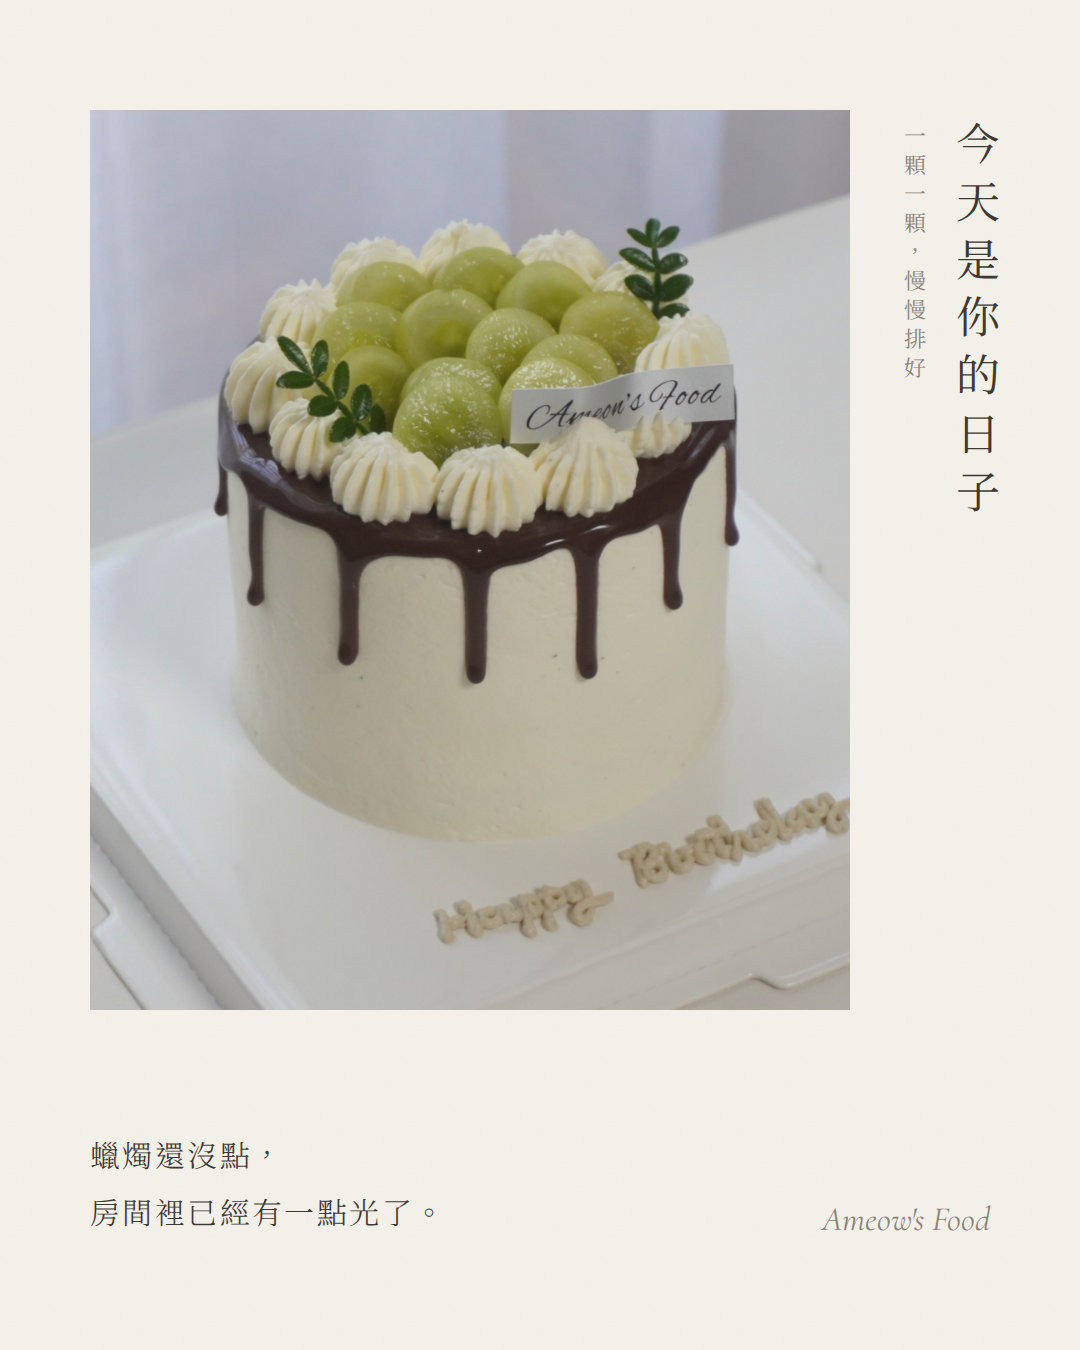
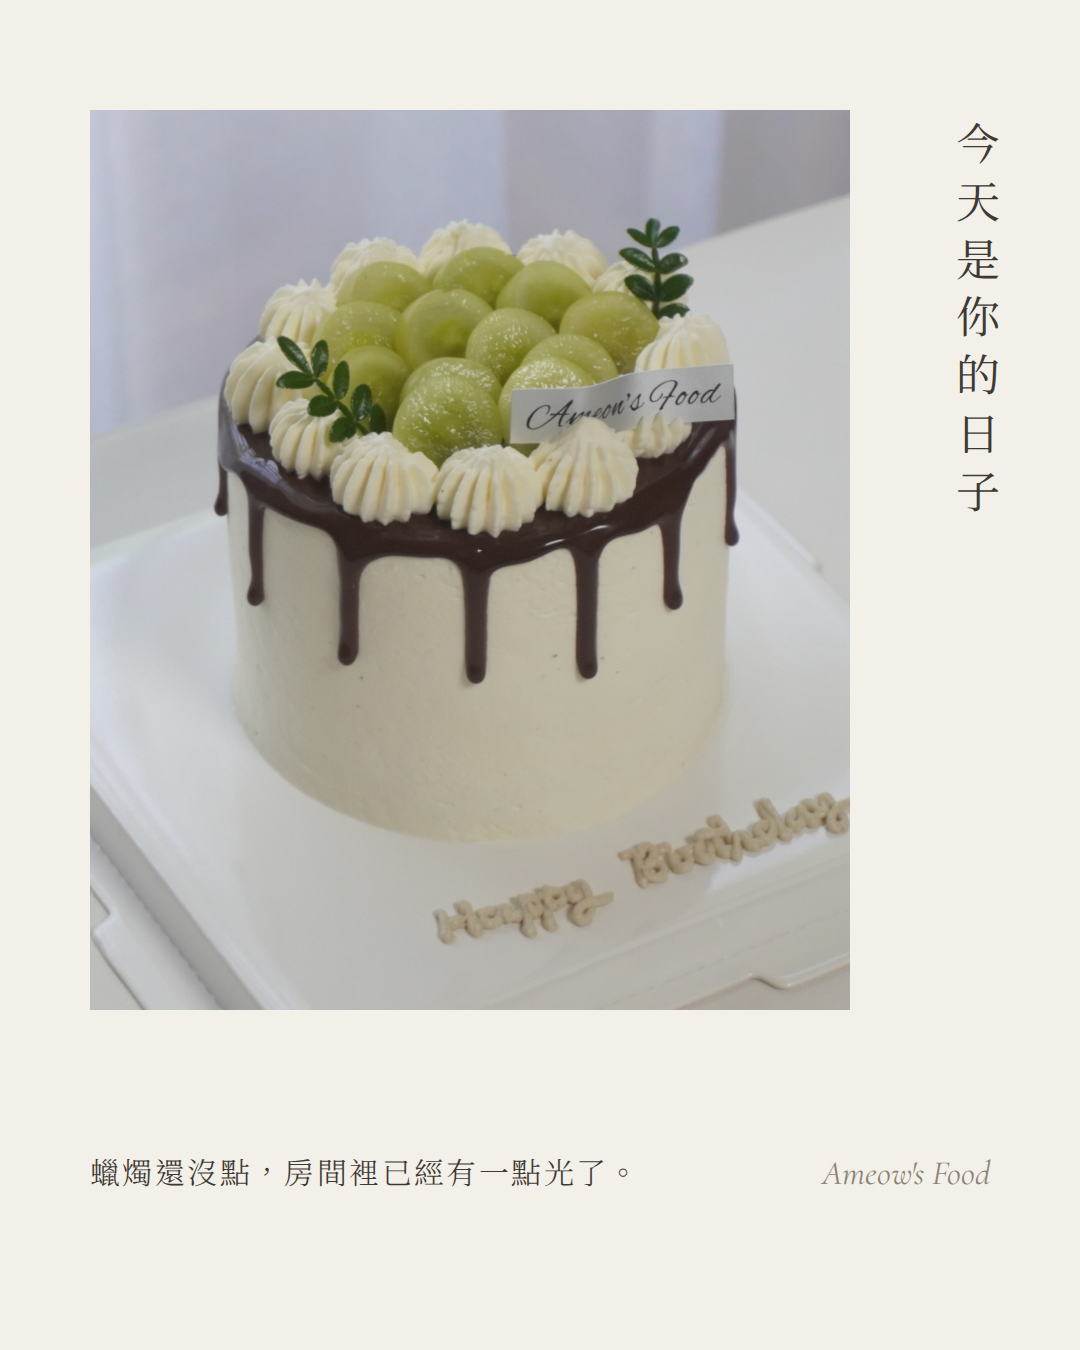
宣傳圖精簡文字，第三張改為與前兩張一致的留白直書版
Claude-Session: https://claude.ai/code/session_01HirGhBX56RDR7WuKYRUBq1

diff --git a/promo/src/posters.html b/promo/src/posters.html
@@ -39,7 +39,7 @@
   #p1 .title { position: absolute; right: 70px; top: 120px; font-size: 44px; font-weight: 400; }
   #p1 .sub { position: absolute; right: 150px; top: 124px; font-size: 22px; color: var(--soft); }
   #p1 .seal { right: 82px; top: 610px; }
-  #p1 .foot { position: absolute; left: 90px; bottom: 110px; right: 90px; display: flex; justify-content: space-between; align-items: flex-end; }
+  #p1 .foot { position: absolute; left: 90px; bottom: 150px; right: 90px; display: flex; justify-content: space-between; align-items: baseline; }
   #p1 .line { font-size: 30px; font-weight: 300; line-height: 1.9; letter-spacing: .08em; }
   #p1 .en { font-size: 34px; color: var(--soft); }
 
@@ -47,69 +47,45 @@
   #p2 .photo { right: 0; top: 0; width: 700px; height: 1350px;
     background-image: url(cake-3.jpg); background-position: 45% 50%; }
   #p2 .no { position: absolute; left: 70px; top: 80px; font-size: 30px; color: var(--soft); }
-  #p2 .title { position: absolute; left: 200px; top: 190px; font-size: 48px; font-weight: 400; line-height: 1.6; }
+  #p2 .title { position: absolute; left: 110px; top: 190px; font-size: 48px; font-weight: 400; line-height: 1.6; }
   #p2 .body { position: absolute; left: 80px; top: 200px; font-size: 25px; font-weight: 300; color: #5c564e; line-height: 2.1; }
   #p2 .bottom { position: absolute; left: 70px; bottom: 80px; width: 260px; }
   #p2 .bottom p { font-size: 20px; line-height: 2; color: var(--soft); letter-spacing: .1em; }
   #p2 .rule { width: 40px; height: 1px; background: var(--soft); margin: 18px 0; }
 
   /* ---------- 03 ---------- */
-  #p3 { background: #efece4; }
-  #p3 .photo { left: 170px; top: 170px; width: 740px; height: 740px; border-radius: 50%;
-    background-image: url(cake-2.jpg); background-position: 40% 45%; }
-  #p3 .ring { position: absolute; left: 150px; top: 150px; width: 780px; height: 780px; border-radius: 50%; border: 1px solid #c9c2b4; }
-  #p3 .top { position: absolute; left: 0; right: 0; top: 70px; text-align: center; }
-  #p3 .words { position: absolute; left: 0; right: 0; top: 990px; text-align: center; }
-  #p3 .words h2 { font-size: 46px; font-weight: 400; letter-spacing: .3em; }
-  #p3 .words p { margin-top: 26px; font-size: 25px; font-weight: 300; color: #5c564e; letter-spacing: .14em; line-height: 1.9; }
-  #p3 .sign { position: absolute; left: 0; right: 0; bottom: 60px; text-align: center; }
-  #p3 .sign .en { font-size: 30px; color: var(--soft); }
+  #p3 .photo { left: 0; bottom: 0; width: 820px; height: 1060px;
+    background-image: url(cake-2.jpg); background-position: 35% 50%; }
+  #p3 .title { position: absolute; right: 90px; top: 300px; font-size: 44px; font-weight: 400; }
+  #p3 .en { position: absolute; right: 60px; bottom: 110px; font-size: 26px; color: var(--soft); }
 </style>
 </head>
 <body>
 
-<!-- 01：留白 + 直書 -->
+<!-- 01 -->
 <section class="poster" id="p1">
   <div class="photo"></div>
   <h1 class="title vt">今天是你的日子</h1>
-  <div class="sub vt">一顆一顆，慢慢排好</div>
   <div class="foot">
-    <div class="line">
-      蠟燭還沒點，<br>
-      房間裡已經有一點光了。
-    </div>
-    <div style="text-align:right">
-      <div class="en">Ameow's Food</div>
-    </div>
+    <div class="line">蠟燭還沒點，房間裡已經有一點光了。</div>
+    <div class="en">Ameow's Food</div>
   </div>
 </section>
 
-<!-- 02：左文右圖 -->
+<!-- 02 -->
 <section class="poster" id="p2">
   <div class="photo"></div>
-  <div class="no en">for your birthday</div>
   <h1 class="title vt">慢慢來，<br>生日快樂。</h1>
-  <div class="body vt">
-    手擠的小花，一朵一朵。<br>
-    巧克力淋下來，不必太整齊。
-  </div>
   <div class="bottom">
-    <p>願你這一年<br>也被溫柔地<br>對待</p>
-    <div class="rule"></div>
     <p class="en" style="font-size:26px;letter-spacing:.02em">Ameow's Food</p>
   </div>
 </section>
 
-<!-- 03：圓窗 -->
+<!-- 03 -->
 <section class="poster" id="p3">
-  <div class="top small">— &nbsp;今 日 の 小 蛋 糕&nbsp; —</div>
-  <div class="ring"></div>
+  <div class="en">Ameow's Food</div>
+  <h1 class="title vt">被記得，就很甜。</h1>
   <div class="photo"></div>
-  <div class="words">
-    <h2>綠色的，甜的</h2>
-    <p>有人記得你的生日<br>這件事本身就很甜</p>
-  </div>
-  <div class="sign"><span class="en">Ameow&rsquo;s Food</span></div>
 </section>
 
 </body>
